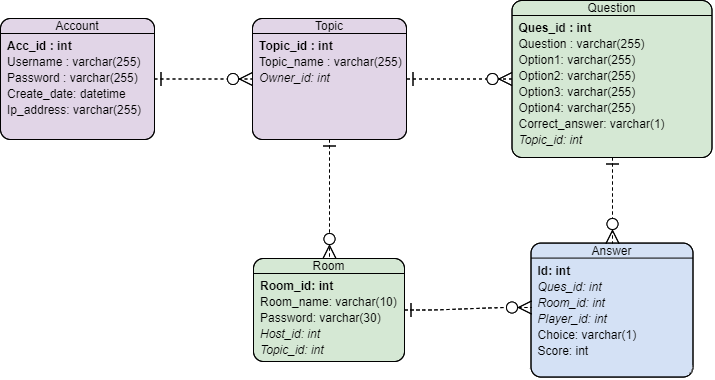
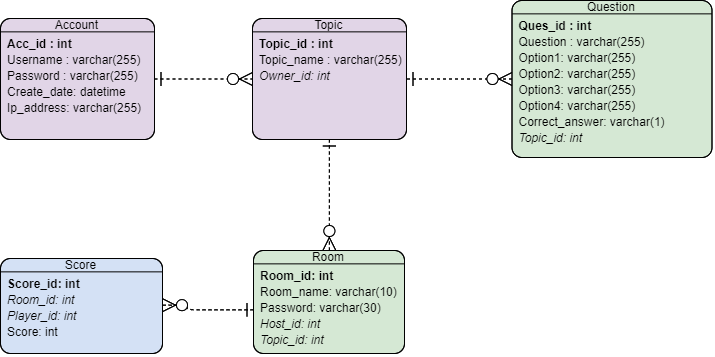
update db

Changed region(s): [[0.0, 0.5546, 0.9846, 1.0], [0.0, 0.0, 1.0, 0.4622], [0.3385, 0.3389, 0.5846, 0.4314]]

diff --git a/src/db/DbQuery.java b/src/db/DbQuery.java
@@ -86,15 +86,13 @@ public class DbQuery {
 //		return rs;
 		return myConnection.executeResultSetSt(sql);
 	}
-	
-	public boolean deleteRoom(ConnectionUtils myConnection, int roomId)
-			throws SQLException, ClassNotFoundException {
+
+	public boolean deleteRoom(ConnectionUtils myConnection, int roomId) throws SQLException, ClassNotFoundException {
 		String sql = "DELETE room WHERE room_id = " + roomId;
 		if (myConnection.executeUpdateSt(sql) > 0)
 			return true;
 		return false;
 	}
-	
 
 	// TOPIC
 	public boolean createTopic(ConnectionUtils myConnection, String topicName, int ownerId)
@@ -105,13 +103,18 @@ public class DbQuery {
 		return false;
 	}
 
-	public ResultSet getTopic(ConnectionUtils myConnection, String topicName)
-			throws SQLException, ClassNotFoundException {
-		String sql = "SELECT * FROM TOPIC WHERE topic_name = " + topicName;
+	public ResultSet getListTopic(ConnectionUtils myConnection, int ownerId)
+			throws ClassNotFoundException, SQLException {
+		String sql = "SELECT * FROM TOPIC WHERE owner_id = " + ownerId;
+		return myConnection.executeResultSetSt(sql);
+
+	}
+
+	public ResultSet getTopic(ConnectionUtils myConnection, int topicId) throws SQLException, ClassNotFoundException {
+		String sql = "SELECT * FROM TOPIC WHERE topic_id = " + topicId;
 		return myConnection.executeResultSetSt(sql);
 	}
 
-	
 	// QUESTION
 	public boolean createQuestion(ConnectionUtils myConnection, String question, String optionA, String optionB,
 			String optionC, String optionD, String answer, int topicId) throws SQLException, ClassNotFoundException {
@@ -159,45 +162,73 @@ public class DbQuery {
 //		return rs;
 		return myConnection.executeResultSetSt(sql);
 	}
-
 	
-	// ANSWER
-	public boolean createPlayerAnswer(ConnectionUtils myConnection, int quesID, int roomId, int playerId, String choice)
-			throws SQLException, ClassNotFoundException {
-		String sql = "INSERT INTO ANSWER (ques_id, room_id, player_id, choice, score)" + "VALUES( ?, ?, ?, ?, ?)";
-		try {
-			PreparedStatement pst = myConnection.getMyConnection().prepareStatement(sql);
-			pst.setInt(1, quesID);
-			pst.setInt(2, roomId);
-			pst.setInt(3, playerId);
-			pst.setString(4, choice);
-			pst.setInt(5, 0);
-			if (pst.executeUpdate() > 0) {
-				return true;
-			} else
-				return false;
-		} catch (Exception e) {
-			System.out.println("Error: " + e.getMessage() + ".My query");
-			return false;
-		}
-	}
-
-	public boolean updatePlayerScore(ConnectionUtils myConnection, int quesId, int roomId, int score)
+	public String getCorrectAnswer(ConnectionUtils myConnection, int quesId)
 			throws SQLException, ClassNotFoundException {
 		String sql = "SELECT * FROM QUESTION WHERE ques_id = " + quesId;
 		ResultSet rs = myConnection.executeResultSetSt(sql);
-		
-		String answer = rs.getString("correct_answer");
-		String sql1 = "UPDATE ANSWER SET score = " + 10 + "WHERE ques_id= " + quesId + "AND room_id = " + roomId
-				+ "AND answer = " + answer;
-		if (myConnection.executeUpdateSt(sql1) > 0)
+		if (rs.next()) {
+			String answer = rs.getString("correct_answer");
+			System.out.println("Answer is: " + answer);
+			return answer;
+		}
+		return null;
+	}
+
+	// ANSWER
+//	public boolean createPlayerAnswer(ConnectionUtils myConnection, int quesID, int roomId, int playerId, String choice)
+//			throws SQLException, ClassNotFoundException {
+//		String sql = "INSERT INTO ANSWER (ques_id, room_id, player_id, choice, score)" + "VALUES( ?, ?, ?, ?, ?)";
+//		try {
+//			PreparedStatement pst = myConnection.getMyConnection().prepareStatement(sql);
+//			pst.setInt(1, quesID);
+//			pst.setInt(2, roomId);
+//			pst.setInt(3, playerId);
+//			pst.setString(4, choice);
+//			pst.setInt(5, 0);
+//			if (pst.executeUpdate() > 0) {
+//				return true;
+//			} else
+//				return false;
+//		} catch (Exception e) {
+//			System.out.println("Error: " + e.getMessage() + ".My query");
+//			return false;
+//		}
+//	}
+//
+//	public boolean updatePlayerScore(ConnectionUtils myConnection, int quesId, int roomId, int score)
+//			throws SQLException, ClassNotFoundException {
+//		String sql = "SELECT * FROM QUESTION WHERE ques_id = " + quesId;
+//		ResultSet rs = myConnection.executeResultSetSt(sql);
+//
+//		String answer = rs.getString("correct_answer");
+//		String sql1 = "UPDATE ANSWER SET score = " + 10 + "WHERE ques_id= " + quesId + "AND room_id = " + roomId
+//				+ "AND answer = " + answer;
+//		if (myConnection.executeUpdateSt(sql1) > 0)
+//			return true;
+//		return false;
+//	}
+//
+//	public ResultSet getRoomScore(ConnectionUtils myConnection, int roomId)
+//			throws SQLException, ClassNotFoundException {
+//		String sql = "SELECT player_id, SUM(Score) FROM ANSWER WHERE room_id = " + roomId + "GROUP BY player_id";
+//		return myConnection.executeResultSetSt(sql);
+//	}
+
+	
+	
+	// SCORE
+	public boolean updatePlayerScore(ConnectionUtils myConnection, int playerId, int roomId, int score)
+			throws SQLException, ClassNotFoundException {
+		String sql = "UPDATE SCORE SET score = " + score + "WHERE player_id= " + playerId + "AND room_id = " + roomId;
+		if (myConnection.executeUpdateSt(sql) > 0)
 			return true;
 		return false;
 	}
-	
+
 	public ResultSet getRoomScore(ConnectionUtils myConnection, int roomId)
 			throws SQLException, ClassNotFoundException {
-		String sql = "SELECT player_id, SUM(Score) FROM ANSWER WHERE room_id = " + roomId + "GROUP BY player_id";
+		String sql = "SELECT * FROM SCORE WHERE room_id = " + roomId;
 		return myConnection.executeResultSetSt(sql);
 	}
 
